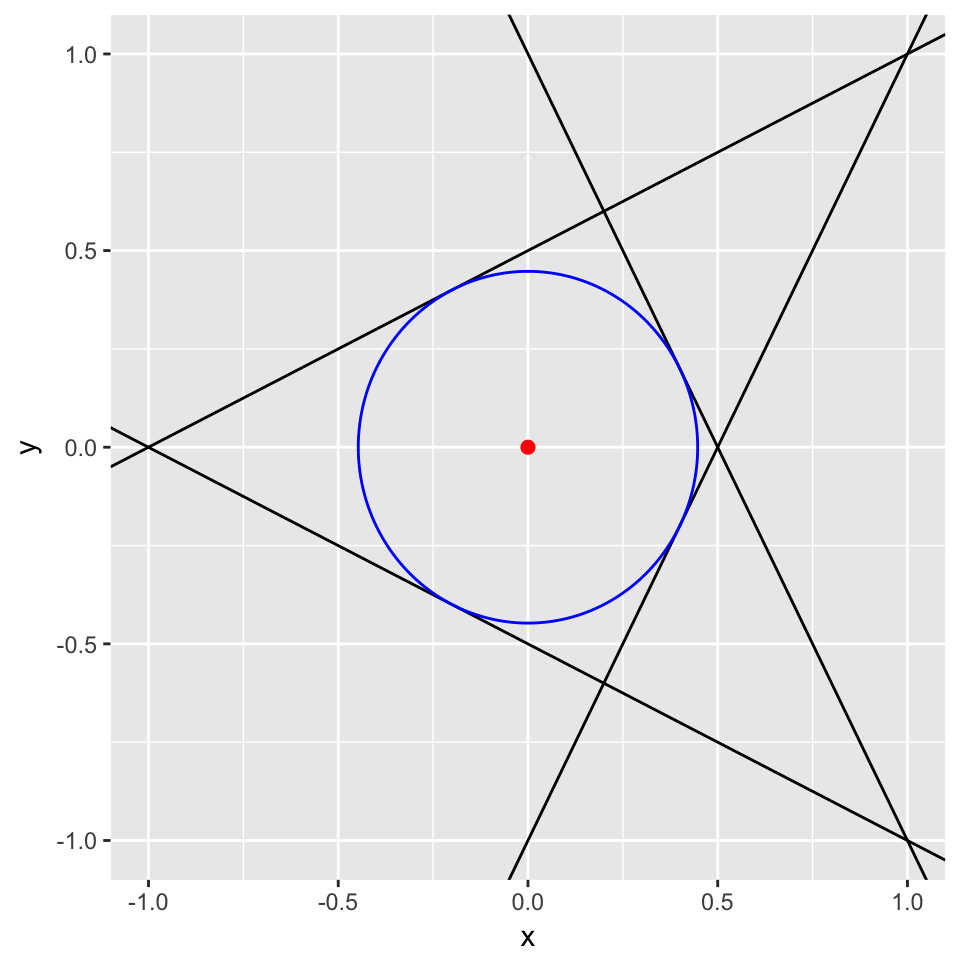
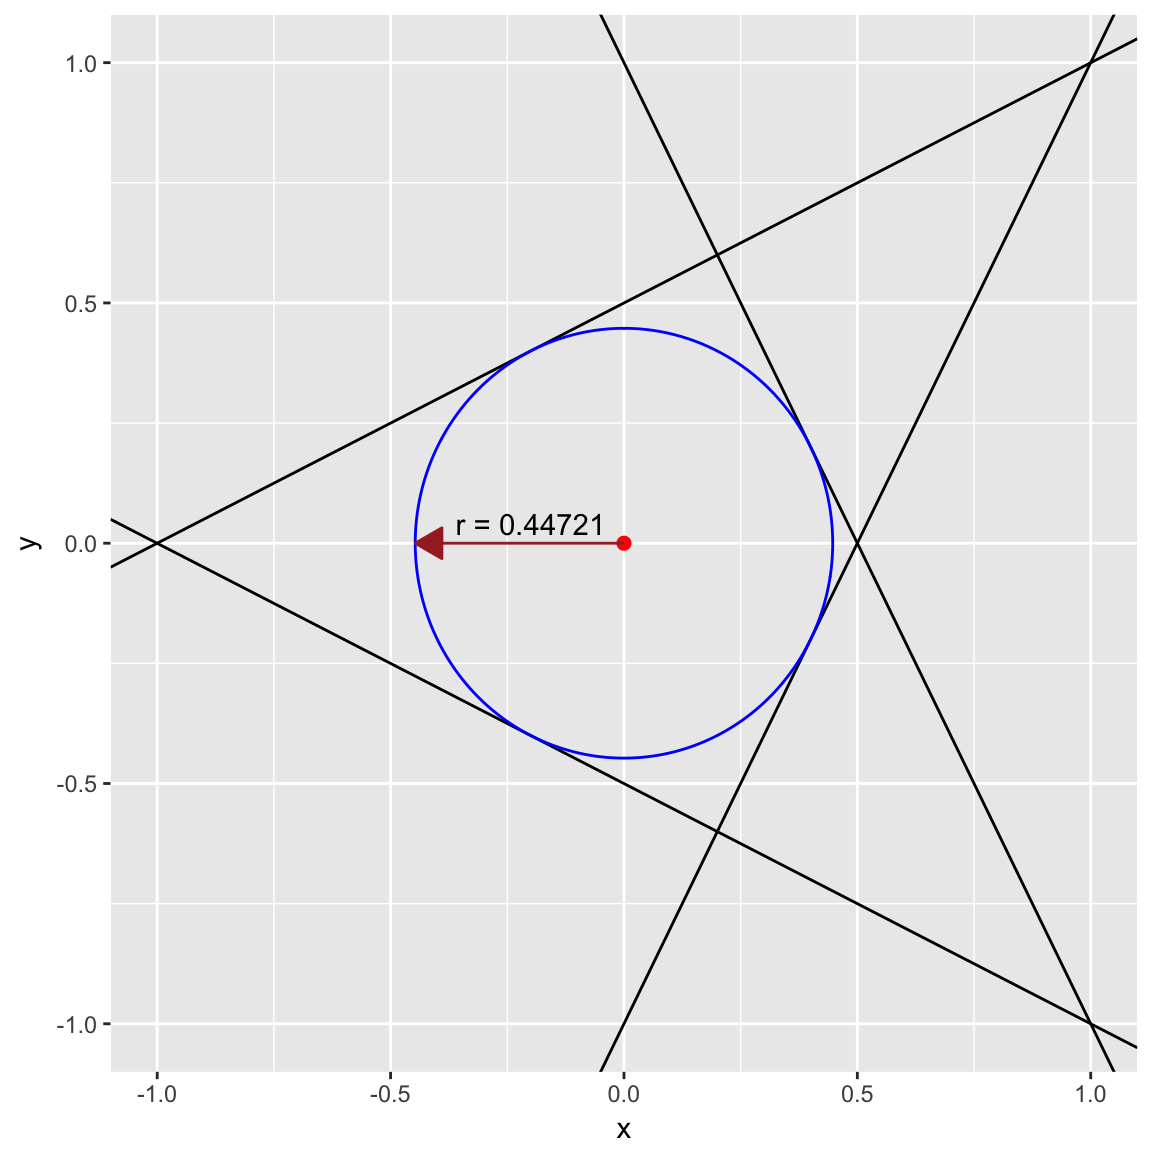
Edited 2d ball example
Edited 2d ball example

diff --git a/public/post/examples/cvxr_2d_ball/index.html b/public/post/examples/cvxr_2d_ball/index.html
@@ -69,9 +69,13 @@ ggplot() +
     geom_abline(slope = -a4[1] / a4[2], intercept = b[4] / a4[2]) +
     geom_circle(mapping = aes(x0 = center[1], y0 = center[2], r = radius), color = &quot;blue&quot;) +
     geom_point(mapping = aes(x = center[1], y = center[2]), color = &quot;red&quot;, size = 2) +
+    geom_line(mapping = aes(x = c(center[1], center[1] - radius), y = c(center[2], center[2])),
+              arrow = arrow(length = unit(0.03, &quot;npc&quot;), ends = &quot;first&quot;, type = &quot;closed&quot;),
+              color = &quot;brown&quot;) +
+    annotate(&quot;text&quot;, x = -0.2, y = 0.04, label = sprintf(&quot;r = %0.5f&quot;, radius)) +
     labs(x = &quot;x&quot;, y = &quot;y&quot;) +
     xlim(-1, 1) + ylim(-1, 1)</code></pre>
-<p><img src="../../../post/examples/cvxr_2d_ball_files/figure-html/unnamed-chunk-4-1.png" width="480" /></p>
+<p><img src="../../../post/examples/cvxr_2d_ball_files/figure-html/unnamed-chunk-4-1.png" width="576" /></p>
 </div>
 <div id="references" class="section level2 unnumbered">
 <h2>References</h2>

diff --git a/content/post/examples/cvxr_2d_ball.html b/content/post/examples/cvxr_2d_ball.html
@@ -55,9 +55,13 @@ ggplot() +
     geom_abline(slope = -a4[1] / a4[2], intercept = b[4] / a4[2]) +
     geom_circle(mapping = aes(x0 = center[1], y0 = center[2], r = radius), color = &quot;blue&quot;) +
     geom_point(mapping = aes(x = center[1], y = center[2]), color = &quot;red&quot;, size = 2) +
+    geom_line(mapping = aes(x = c(center[1], center[1] - radius), y = c(center[2], center[2])),
+              arrow = arrow(length = unit(0.03, &quot;npc&quot;), ends = &quot;first&quot;, type = &quot;closed&quot;),
+              color = &quot;brown&quot;) +
+    annotate(&quot;text&quot;, x = -0.2, y = 0.04, label = sprintf(&quot;r = %0.5f&quot;, radius)) +
     labs(x = &quot;x&quot;, y = &quot;y&quot;) +
     xlim(-1, 1) + ylim(-1, 1)</code></pre>
-<p><img src="/post/examples/cvxr_2d_ball_files/figure-html/unnamed-chunk-4-1.png" width="480" /></p>
+<p><img src="/post/examples/cvxr_2d_ball_files/figure-html/unnamed-chunk-4-1.png" width="576" /></p>
 </div>
 <div id="references" class="section level2 unnumbered">
 <h2>References</h2>
